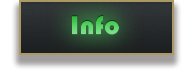
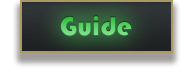
Homescreen revisions
-Updated Info button
-Decreased size of Exit button and positioning

Changed region(s): [[0.0933, 0.0, 0.9016, 0.7089], [0.2798, 0.1772, 0.6839, 0.481], [0.0622, 0.7595, 0.9326, 0.8354]]

diff --git a/app/src/main/java/com/example/spacewar/SpaceWar/InfoScreen.java b/app/src/main/java/com/example/spacewar/SpaceWar/InfoScreen.java
@@ -46,9 +46,9 @@ public class InfoScreen extends Screen
     {
         // draw images and text
         gameEngine.drawBitmap(background, 0, 55);
-        gameEngine.drawBitmap(close, 320/2 - close.getWidth()/2, 480/2 - close.getHeight()/2 + 130);
-        title = "Guidelines" ;
-        gameEngine.drawText(font, title, 90, 90, Color.WHITE, 30);
+        gameEngine.drawBitmap(close, 320/2 - close.getWidth()/2, 518/2 - close.getHeight()/2 + 130);
+        title = "Guide" ;
+        gameEngine.drawText(font, title, 120, 90, Color.WHITE, 30);
         text1 = "Stay alive and shoot enemies to" ;
         gameEngine.drawText(font, text1, 20, 130, Color.WHITE, 18);
         text2 = "get a higher score" ;
